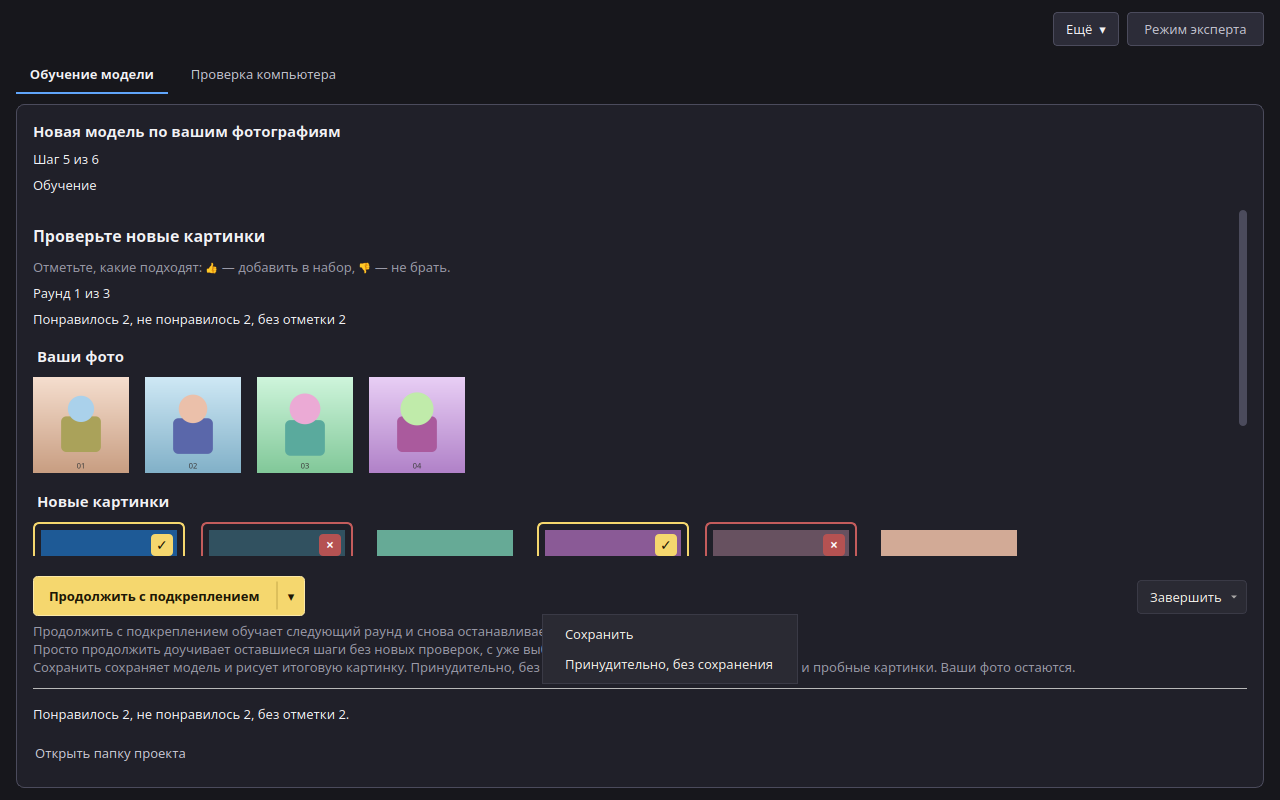
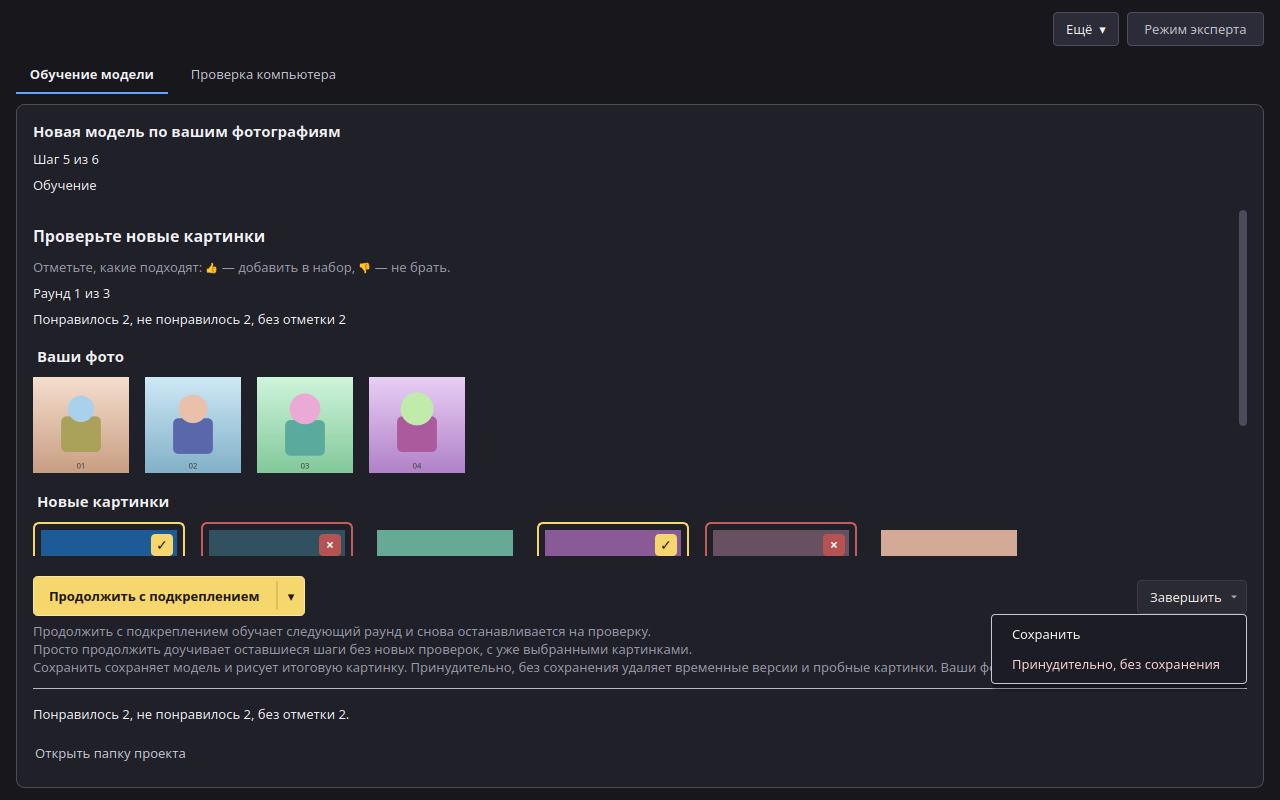
Hang the finish menu off its button.
The offscreen screen is 800 px wide, and QMenu::popup clamped the menu
onto that screen, so on a 1280×800 window it sat over the help text.
Anchor the right edges, keep the top against the button, and flip above
only when the window has no room below.

Changed region(s): [[0.4062, 0.7812, 0.625, 0.8438], [0.7812, 0.7812, 0.9375, 0.8438]]

diff --git a/src/voxprint_forge/app/window.py b/src/voxprint_forge/app/window.py
@@ -187,6 +187,14 @@ QMenu::item { padding: 6px 18px; background: transparent; color: #f4f1ea; }
 QMenu::item:selected { background: #3a3a46; color: #f4f1ea; }
 QMenu::separator { height: 1px; background: #3a3a46; margin: 4px 8px; }
 """
+# The finish menu matches the discard dialog's card: dark fill, a light border, a short shadow.
+# ``_DANGER_TEXT`` is the text colour on the dislike / danger state.
+_FINISH_PANEL = "#1c1c24"
+_FINISH_BORDER = "#c8c8d4"
+_FINISH_INK = "#f4f1ea"
+_DANGER_TEXT = "#f3d0d0"
+_FINISH_RADIUS = 4
+_FINISH_SHADOW = 8
 _CHEVRON_W = 28
 _LABEL_PAD = 16
 _LABEL_GAP = 14
@@ -1564,7 +1572,7 @@ class ForgeApp:
         button.setEnabled(not busy)
         button.style().unpolish(button)
         button.style().polish(button)
-        menu = _menu(button, "forgeReviewMenu")
+        menu = _FinishMenu(button)
         save = menu.addAction(tr("forge.app.review.finish.save"))
         save.setObjectName("forge.review.finish.save")
         save.setToolTip(tr("forge.app.review.finish.save.tip"))
@@ -3139,13 +3147,66 @@ def _menu(parent: QtWidgets.QWidget, name: str) -> QtWidgets.QMenu:
     return menu
 
 
+class _FinishMenu(QtWidgets.QMenu):
+    """Dark finish menu. The panel is drawn here so a grab shows the border, radius and shadow."""
+
+    def __init__(self, parent: QtWidgets.QWidget) -> None:
+        super().__init__(parent)
+        self.setObjectName("forgeReviewMenu")
+        self.setAttribute(QtCore.Qt.WidgetAttribute.WA_TranslucentBackground, True)
+        self.setAttribute(QtCore.Qt.WidgetAttribute.WA_StyledBackground, True)
+        self.setWindowFlag(QtCore.Qt.WindowType.NoDropShadowWindowHint, True)
+        self.setProperty("forgeShadowBelow", _FINISH_SHADOW)
+
+    def shadow_below(self) -> int:
+        """Pixels of shadow under the panel. Zero when the menu opens above the button."""
+        value = self.property("forgeShadowBelow")
+        return value if isinstance(value, int) else 0
+
+    def paintEvent(self, event: QtGui.QPaintEvent) -> None:  # noqa: N802 - Qt override
+        """Fill, light border, shadow under the panel, and the two actions."""
+        del event
+        painter = QtGui.QPainter(self)
+        painter.setRenderHint(QtGui.QPainter.RenderHint.Antialiasing)
+        font = self.font()
+        # Subpixel antialiasing turns the danger pink into orange and cyan fringes.
+        font.setStyleStrategy(QtGui.QFont.StyleStrategy.NoSubpixelAntialias)
+        painter.setFont(font)
+        shadow = self.shadow_below()
+        panel = QtCore.QRectF(0, 0, self.width(), max(1, self.height() - shadow))
+        if shadow:
+            painter.setPen(QtCore.Qt.PenStyle.NoPen)
+            for step in range(shadow, 0, -1):
+                painter.setBrush(QtGui.QColor(0, 0, 0, 16))
+                painter.drawRoundedRect(panel.adjusted(1, 2, -1, step), _FINISH_RADIUS, _FINISH_RADIUS)
+        painter.setPen(QtCore.Qt.PenStyle.NoPen)
+        painter.setBrush(QtGui.QColor(_FINISH_BORDER))
+        painter.drawRoundedRect(panel, _FINISH_RADIUS, _FINISH_RADIUS)
+        painter.setBrush(QtGui.QColor(_FINISH_PANEL))
+        painter.drawRoundedRect(panel.adjusted(1, 1, -1, -1), max(0, _FINISH_RADIUS - 1), max(0, _FINISH_RADIUS - 1))
+        for action in self.actions():
+            if action.isSeparator() or not action.isVisible():
+                continue
+            rect = self.actionGeometry(action)
+            if rect.isEmpty():
+                continue
+            if self.activeAction() is action:
+                painter.setPen(QtCore.Qt.PenStyle.NoPen)
+                painter.setBrush(QtGui.QColor("#3a3a46"))
+                painter.drawRect(rect.adjusted(2, 1, -2, -1))
+            color = _DANGER_TEXT if action.objectName() == "forge.review.finish.discard" else _FINISH_INK
+            painter.setPen(QtGui.QColor(color))
+            flags = QtCore.Qt.AlignmentFlag.AlignVCenter | QtCore.Qt.AlignmentFlag.AlignLeft
+            painter.drawText(rect.adjusted(16, 0, -8, 0), flags, action.text())
+        painter.end()
+
+
 class _FinishButton(QtWidgets.QPushButton):
     """Finish opens its menu from the button's right edge, inside the window."""
 
     def mousePressEvent(self, event: QtGui.QMouseEvent) -> None:  # noqa: N802 - Qt override
         """Open the menu aligned to this button instead of past the window edge."""
         if event.button() == QtCore.Qt.MouseButton.LeftButton and self.menu() is not None:
-            QtWidgets.QAbstractButton.mousePressEvent(self, event)
             popup_menu(self)
             event.accept()
             return
@@ -3171,29 +3232,42 @@ def _menu_width(menu: QtWidgets.QMenu) -> int:
     return widest + 48
 
 
+def _menu_panel_size(menu: QtWidgets.QMenu) -> tuple[int, int]:
+    """Width and height of the menu panel, without the shadow strip under a finish menu."""
+    menu.setMinimumWidth(_menu_width(menu))
+    if not menu.isVisible():
+        menu.adjustSize()
+    hint = menu.sizeHint()
+    return max(hint.width(), menu.minimumWidth()), max(hint.height(), 1)
+
+
 def menu_popup_point(button: QtWidgets.QAbstractButton) -> QtCore.QPoint:
-    """Global top-left for ``button``'s menu: right edges meet, then clamped on screen."""
+    """Global top-left: the menu's right edge meets the button's, and it hangs just below.
+
+    It flips above the button only when that panel would pass the bottom of the window.
+    The anchor is the window. The offscreen screen is smaller than a 1280 px window, and
+    clamping to the screen leaves the menu in the middle, over the help text.
+    """
     menu = button.menu()
     if menu is None:
         return button.mapToGlobal(QtCore.QPoint(0, button.height()))
-    menu.setMinimumWidth(_menu_width(menu))
-    menu.adjustSize()
-    width = max(menu.sizeHint().width(), menu.minimumWidth())
-    height = max(menu.sizeHint().height(), 1)
-    bottom_right = button.mapToGlobal(QtCore.QPoint(button.width(), button.height()))
-    x = bottom_right.x() - width
-    y = bottom_right.y()
-    screen = button.screen() or QtGui.QGuiApplication.primaryScreen()
-    bounds = screen.availableGeometry() if screen is not None else QtCore.QRect(0, 0, width, height)
+    if isinstance(menu, _FinishMenu):
+        menu.setProperty("forgeShadowBelow", _FINISH_SHADOW)
+    width, panel = _menu_panel_size(menu)
+    shadow = menu.shadow_below() if isinstance(menu, _FinishMenu) else 0
+    height = panel + shadow
+    right = button.mapToGlobal(QtCore.QPoint(button.width(), 0)).x()
+    bottom = button.mapToGlobal(QtCore.QPoint(0, button.height())).y()
+    top = button.mapToGlobal(QtCore.QPoint(0, 0)).y()
+    x = right - width
+    y = bottom
     window = button.window()
     if window is not None:
-        bounds = bounds.intersected(QtCore.QRect(window.mapToGlobal(QtCore.QPoint(0, 0)), window.size()))
-    if bounds.width() > 0:
-        x = min(max(x, bounds.left()), max(bounds.left(), bounds.right() - width + 1))
-    if y + height > bounds.bottom():
-        y = button.mapToGlobal(QtCore.QPoint(0, 0)).y() - height
-    if bounds.height() > 0:
-        y = min(max(y, bounds.top()), max(bounds.top(), bounds.bottom() - height + 1))
+        bounds = QtCore.QRect(window.mapToGlobal(QtCore.QPoint(0, 0)), window.size())
+        if y + height - 1 > bounds.bottom():
+            if isinstance(menu, _FinishMenu):
+                menu.setProperty("forgeShadowBelow", 0)
+            y = top - panel
     return QtCore.QPoint(x, y)
 
 
@@ -3203,6 +3277,14 @@ def popup_menu(button: QtWidgets.QAbstractButton) -> None:
     if menu is None:
         return
     menu.popup(menu_popup_point(button))
+    # QMenu::popup() pulls the menu onto the screen. Move it back onto the button.
+    point = menu_popup_point(button)
+    width, panel = _menu_panel_size(menu)
+    shadow = menu.shadow_below() if isinstance(menu, _FinishMenu) else 0
+    menu.resize(max(width, menu.width()), panel + shadow)
+    right = button.mapToGlobal(QtCore.QPoint(button.width(), 0)).x()
+    menu.move(right - menu.width(), point.y())
+    menu.setActiveAction(None)
 
 
 class _DarkDialog(QtWidgets.QDialog):

diff --git a/tests/test_app_review.py b/tests/test_app_review.py
@@ -22,6 +22,7 @@ from voxprint_forge.app.window import (  # noqa: E402
     button_radius_px,
     format_span,
     menu_popup_point,
+    popup_menu,
     register_catalogs,
 )
 from voxprint_forge.lora.project import SCHEMA, Project  # noqa: E402
@@ -188,6 +189,88 @@ def _assert_review_fits(app, qapp) -> None:
     note = app.window.findChild(QtWidgets.QLabel, "forge.review.note")
     note_at = note.mapTo(app.window, QtCore.QPoint(0, note.height()))
     assert note_at.y() <= app.window.height()
+
+
+def _assert_menu_anchored_to_button(
+    menu: QtWidgets.QMenu, button: QtWidgets.QAbstractButton, window: QtWidgets.QWidget,
+) -> None:
+    """The menu's right edge meets the button's, and it touches the button from below or from above."""
+    origin = window.mapFromGlobal(menu.pos())
+    top_left = button.mapTo(window, QtCore.QPoint(0, 0))
+    bottom_right = button.mapTo(window, QtCore.QPoint(button.width(), button.height()))
+    menu_right = origin.x() + menu.width()
+    menu_bottom = origin.y() + menu.height()
+    assert abs(menu_right - bottom_right.x()) <= 2
+    gap_below = origin.y() - bottom_right.y()
+    gap_above = top_left.y() - menu_bottom
+    if bottom_right.y() + menu.height() <= window.height():
+        assert 0 <= gap_below <= 2
+    else:
+        assert 0 <= gap_above <= 2
+
+
+def test_the_finish_menu_hangs_off_the_finish_button(make_app, tmp_path, qapp) -> None:
+    """At 1280×800 the menu's top meets the button's bottom and their right edges line up."""
+    app = make_app("ru")
+    photos = make_photos(tmp_path / "src", 2)
+    _seed_review(app.project, photos)
+    app.layout.sections._index = STEPS.index("train")
+    app.window.setFixedSize(1280, 800)
+    app.repaint()
+    qapp.processEvents()
+    finish = app.window.findChild(QtWidgets.QPushButton, "forge.review.finish")
+    assert finish is not None and finish.text() == "Завершить"
+    menu = finish.menu()
+    assert menu is not None
+    QtTest.QTest.mouseClick(finish, QtCore.Qt.MouseButton.LeftButton)
+    qapp.processEvents()
+    assert menu.isVisible()
+    _assert_menu_anchored_to_button(menu, finish, app.window)
+    image = menu.grab().toImage()
+    edge = image.pixelColor(0, image.height() // 2)
+    fill = image.pixelColor(12, image.height() // 2)
+    assert edge.lightness() > fill.lightness() + 40
+    discard = next(item for item in menu.actions() if item.objectName() == "forge.review.finish.discard")
+    assert _has_danger_text(image, menu.actionGeometry(discard))
+    assert not _has_danger_text(image, menu.actionGeometry(menu.actions()[0]))
+
+
+def test_the_finish_menu_flips_above_the_button_when_nothing_fits_below(qapp) -> None:
+    """A button on the bottom edge opens the menu upward, still sharing its right edge."""
+    window = QtWidgets.QWidget()
+    window.setFixedSize(1280, 220)
+    window.show()
+    button = QtWidgets.QPushButton("Завершить", window)
+    button.setGeometry(1080, 176, 140, 32)
+    menu = QtWidgets.QMenu(button)
+    menu.setObjectName("forgeReviewMenu")
+    save = menu.addAction("Сохранить")
+    save.setObjectName("forge.review.finish.save")
+    discard = menu.addAction("Принудительно, без сохранения")
+    discard.setObjectName("forge.review.finish.discard")
+    button.setMenu(menu)
+    button.show()
+    qapp.processEvents()
+    popup_menu(button)
+    qapp.processEvents()
+    assert menu.isVisible()
+    _assert_menu_anchored_to_button(menu, button, window)
+    origin = window.mapFromGlobal(menu.pos())
+    top = button.mapTo(window, QtCore.QPoint(0, 0)).y()
+    assert 0 <= top - (origin.y() + menu.height()) <= 2
+    menu.close()
+    window.close()
+
+
+def _has_danger_text(image: QtGui.QImage, rect: QtCore.QRect) -> bool:
+    """True when ``rect`` paints the danger text colour, a light red."""
+    inset = rect.adjusted(8, 4, -8, -4)
+    for y in range(inset.top(), inset.bottom(), 2):
+        for x in range(inset.left(), inset.right(), 2):
+            color = image.pixelColor(x, y)
+            if color.red() > 210 and color.red() > color.green() + 20 and color.blue() > 170:
+                return True
+    return False
 
 
 def _card(button: QtWidgets.QPushButton) -> QtWidgets.QFrame:

diff --git a/scripts/forge_app_shots.py b/scripts/forge_app_shots.py
@@ -138,7 +138,7 @@ def shot_review_rounds(out: Path, home: Path, photos: list[Path]) -> None:
     from voxprint_common.i18n import set_language
 
     from voxprint_forge.app.draft import STEPS
-    from voxprint_forge.app.window import ForgeApp, menu_popup_point
+    from voxprint_forge.app.window import ForgeApp, popup_menu
     from voxprint_forge.lora.project import Project
     from voxprint_forge.lora.review import save_state, transition
 
@@ -227,14 +227,12 @@ def shot_review_rounds(out: Path, home: Path, photos: list[Path]) -> None:
                 raise SystemExit(f"review grab is {image.width()}x{image.height()}, want 1280x800")
             image.save(str(out / "ru-simple-5-review.png"))
             menu = finish.menu()
-            origin = menu_popup_point(finish)
-            menu.popup(origin)
+            popup_menu(finish)
             app.processEvents()
             image = forge.window.grab()
             popup = menu.grab()
-            point = forge.window.mapFromGlobal(menu.pos())
-            point.setX(min(max(0, point.x()), max(0, image.width() - popup.width())))
-            point.setY(min(max(0, point.y()), max(0, image.height() - popup.height())))
+            # A popup is its own window, so paint it where it sits on this one.
+            point = forge.window.mapFromGlobal(menu.mapToGlobal(QtCore.QPoint(0, 0)))
             painter = QtGui.QPainter(image)
             painter.drawPixmap(point, popup)
             painter.end()
